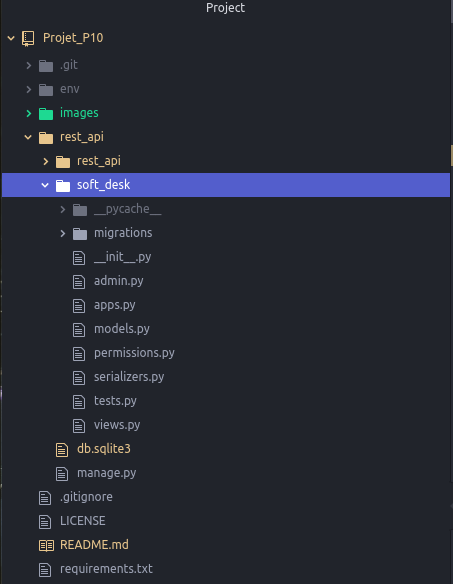
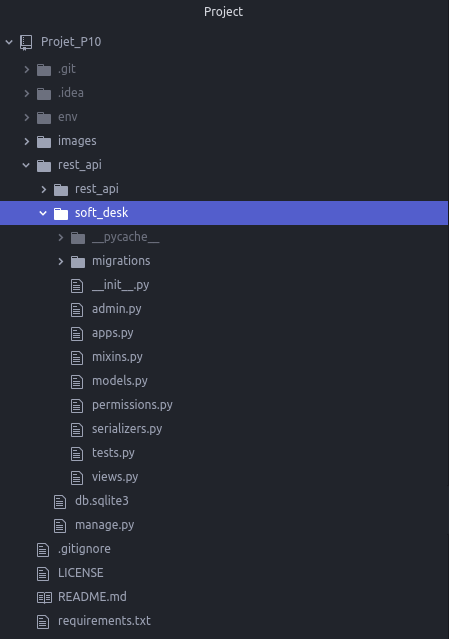
version 0.0.23 modification README.md

diff --git a/README.md b/README.md
@@ -54,6 +54,8 @@ Elle contient notamment les 2 fichiers :
 
 C'est l'application qui héberge le code de l'API :
 - `admin.py` : pour pouvoir accéder aux tables via l'administration de Django
+- `apps.py` : classe définissant la confi de l'application
+- `mixins.py` : classe définissant des "mixins" customisés
 - `models.py` : module décrivant le modèle de données
   - `User` : classe personnalisée héritant de `django.contrib.auth.models.AbstractBaseUser`
   - `Project` : classe définissant un projet
@@ -173,7 +175,7 @@ Pour alimenter les endpoints de cette nouvelle collection, vous pouvez importer 
 
 https://www.getpostman.com/collections/daef1894f692f4080b97
 
-Ci-après les copies d'écran (l'url dans les copies d'écran est donnée à titre d'exemple)
+Ci-après les copies d'écran :
 
 ![](images/importer_collection_01.png)
 
@@ -228,26 +230,20 @@ Pour créer un compte utilisateur, il suffit de :
 
 **Une fois connecté, l'API renvoie un Token dans la réponse HTTP.**
 
-**Il faut copier la valeur de ce Token (sans les double-quotes : ") pour le renseigner dans l'onglet `Authorization` des endpoints nécessitant une authentification.**
+**Dans l'onglet Tests du endpoint /login/, j'ai mis en place l'initialisation d'une variable globale jwt_token qui permet d'éviter de copier-coller la valeur du token dans chacun des onglets `Authorization` des endpoints nécessitant une authentification.**
 
 
 ##### 6.2.3) Tester un point de terminaison ne nécessitant pas d'objet JSON dans la requete
 
-**Première étape : renseigner le Token dans l'onglet `Authorization`**
+Le token est alimenté automatiquement si on est passé au préalable par le endpoint /login/.
 
-![](images/renseigner_token.png)
-
-**Deuxième étape : "poster" la requête**
+Avec le paramétrage fourni, le token a une durée de validité de 4 heures.
 
 Après avoir cliqué sur le bouton **SEND**, on observe la réponse HTTP suivante :
 
 ![](images/liste_projets.png)
 
 ##### 6.2.4) Tester un point de terminaison nécessitant un objet JSON dans la requete
-
-**Renseigner le Token**
-
-Voir plus haut.
 
 **Preparer la requête**
 
@@ -265,6 +261,8 @@ Valoriser l'objet JSON dans l'onglet `Body`.
 
 Le code de ce projet est sous licence libre **GNU GPL V3**
 
+Le paquet `drf-nested-routers` publié sous Licence Apache 2 dans ce projet est réalisé par
+**Alan Justino da Silva**
 
 ### 8) Questions/Aide/Support
 
